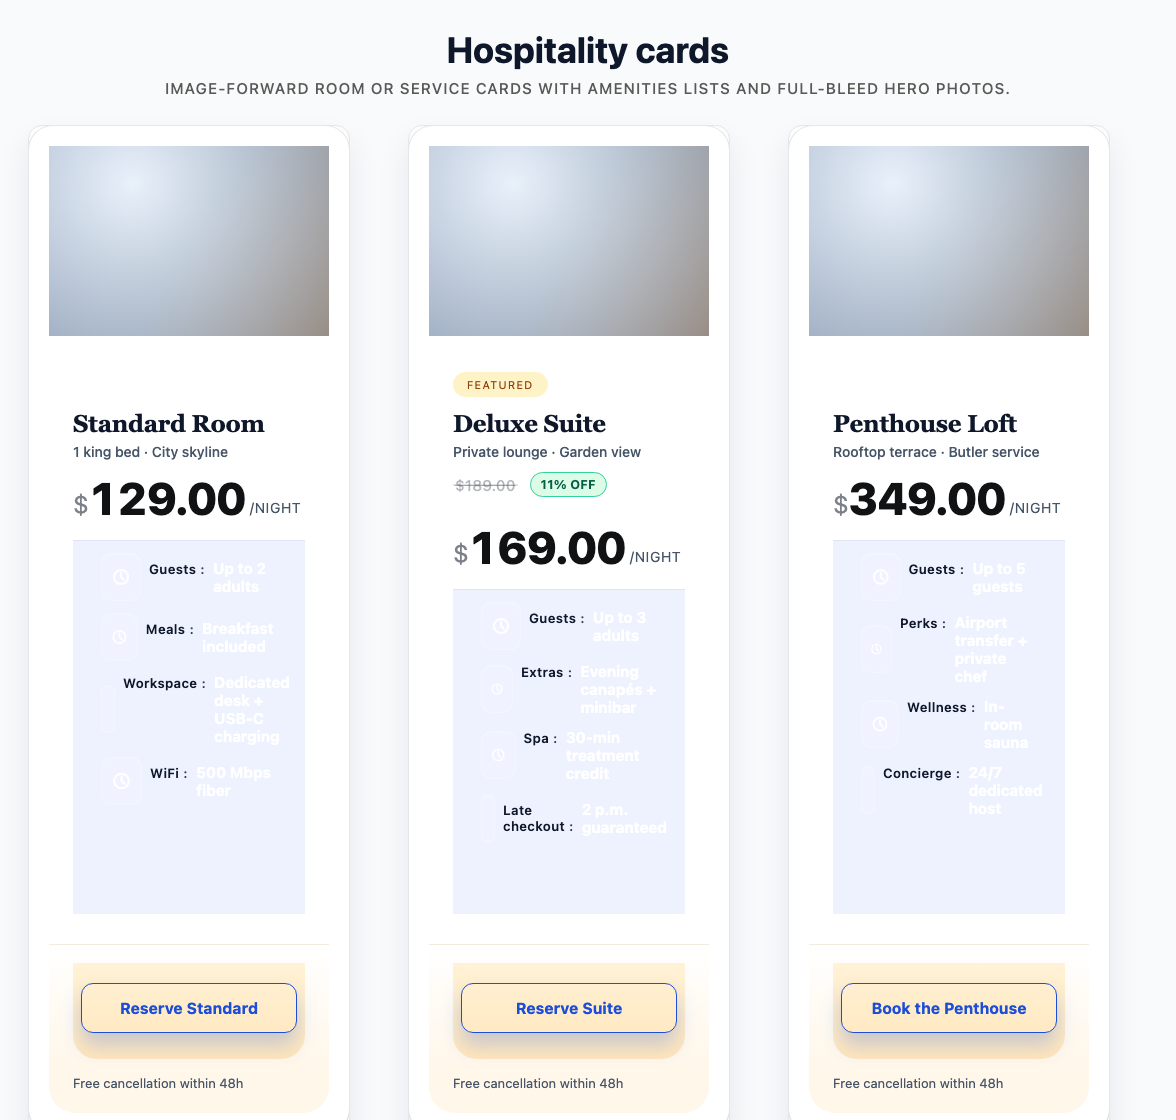
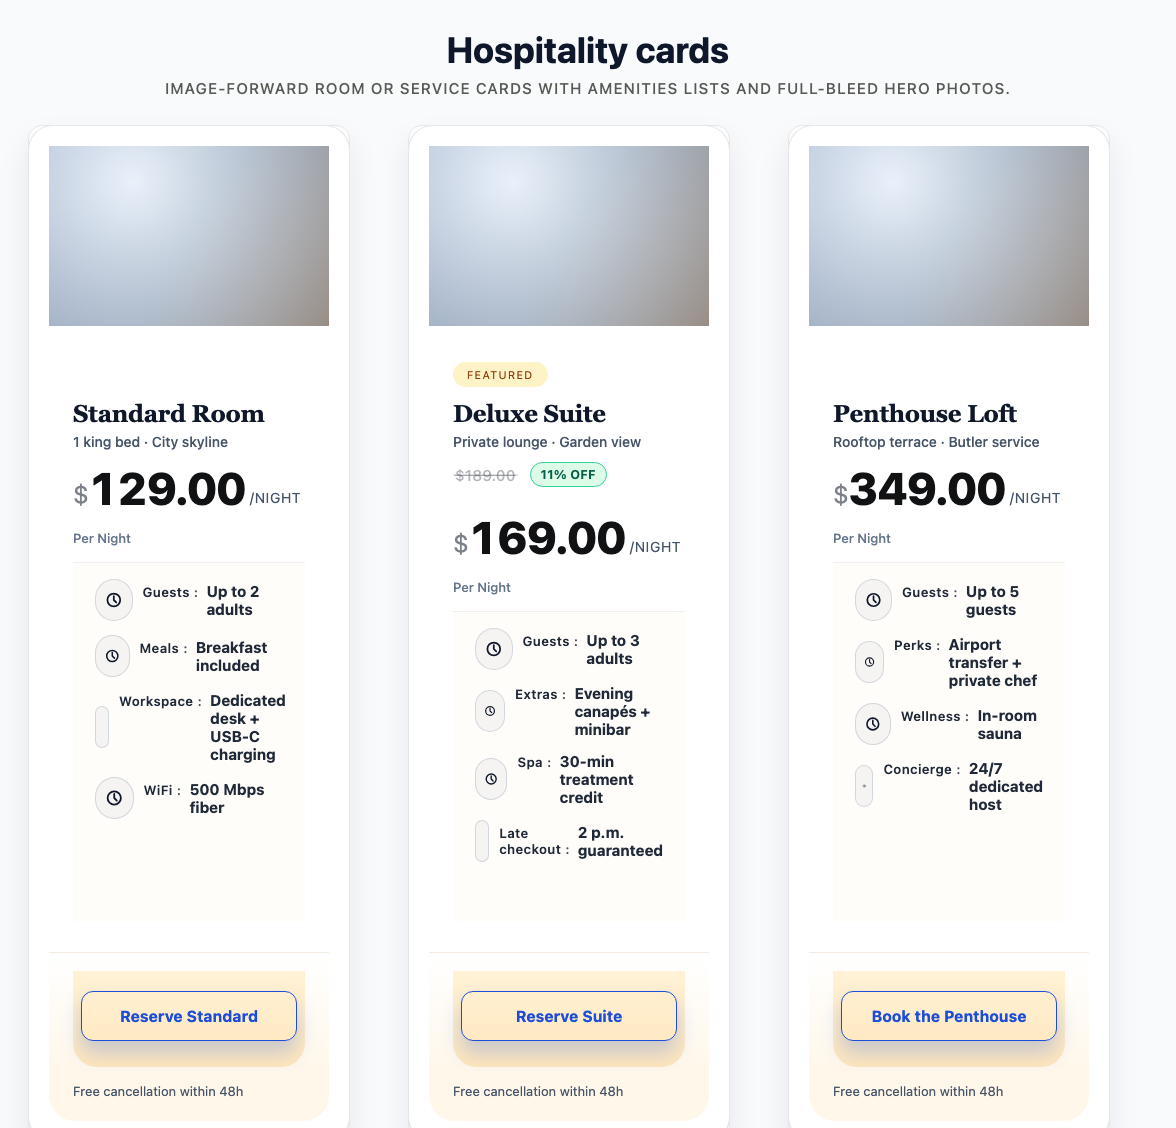
Polish Hospitality Cards specs, pricing, and spacing

diff --git a/themes/firevps/theme.css b/themes/firevps/theme.css
@@ -935,6 +935,9 @@
   flex-direction: column;
   background: var(--card-cta-gradient, var(--card-cta-bg, transparent));
 }
+.pwpl-table--theme-firevps.pwpl-table--preset-hospitality-cards .fvps-card__cta {
+  background: transparent;
+}
 
 .pwpl-table--theme-firevps .fvps-button--inline {
   width: auto;
@@ -2181,6 +2184,10 @@
   --card-specs-icon-border: rgba(139, 92, 246, 0.4);
   background: #f5f3ff;
 }
+.pwpl-table--theme-firevps.pwpl-table--preset-hospitality-cards {
+  --fvps-card-min-fallback: 380px;
+  --fvps-card-max-inline: 480px;
+}
 .pwpl-table--theme-firevps.pwpl-table--preset-app-soft-cards .pwpl-plan {
   border-radius: 0;
   border: 1px solid #e5e7eb;
@@ -2263,6 +2270,9 @@
   gap: 20px;
   align-items: stretch;
 }
+.pwpl-table--theme-firevps.pwpl-table--layout-columns.pwpl-table--preset-hospitality-cards .fvps-columns-grid {
+  gap: 36px;
+}
 .pwpl-table--theme-firevps.pwpl-table--layout-columns .fvps-columns-card {
   display: flex;
   flex-direction: column;
@@ -2280,18 +2290,31 @@
   gap: 12px;
   flex: 1 1 auto;
 }
+.pwpl-table--theme-firevps.pwpl-table--layout-columns .fvps-card__specs {
+  --card-specs-text: #0f172a;
+  background-color: #fffdfa;
+  background-image: none;
+  color: #1f2937;
+}
+.pwpl-table--theme-firevps.pwpl-table--layout-columns .fvps-card__specs .fvps-spec__label,
+.pwpl-table--theme-firevps.pwpl-table--layout-columns .fvps-card__specs .fvps-spec__value {
+  color: #1f2937;
+}
 .pwpl-table--theme-firevps .fvps-card--preset-hospitality-cards {
   background: linear-gradient(180deg, #ffffff 0%, #fffdf7 100%);
   border: 1px solid rgba(15, 23, 42, 0.07);
   border-radius: 26px;
-  box-shadow: 0 24px 50px rgba(15, 23, 42, 0.1);
+  box-shadow: none;
   padding: 0;
   overflow: hidden;
+}
+.pwpl-table--theme-firevps .fvps-card--preset-hospitality-cards::after {
+  box-shadow: 0 0 0 1px rgba(15, 23, 42, 0.06);
 }
 .fvps-hospitality-hero {
   position: relative;
   width: 100%;
-  height: 190px;
+  height: 180px;
   overflow: hidden;
   background: radial-gradient(circle at 30% 20%, rgba(255, 255, 255, 0.65), rgba(2, 6, 23, 0.3)),
     linear-gradient(120deg, #c3daf9, #bcd3eb, #d9c8b5);
@@ -2309,12 +2332,12 @@
 }
 @media (max-width: 960px) {
   .fvps-hospitality-hero {
-    height: 160px;
+    height: 155px;
   }
 }
 @media (max-width: 782px) {
   .fvps-hospitality-hero {
-    height: 140px;
+    height: 135px;
   }
 }
 .fvps-card__body--hospitality {
@@ -2352,24 +2375,50 @@
 .fvps-card--preset-hospitality-cards .fvps-card__specs {
   display: flex;
   flex-direction: column;
-  gap: 8px;
-  padding-top: 10px;
+  gap: 10px;
+  padding: 14px 22px 16px;
+  margin: 6px 0 0;
   border-top: 1px solid rgba(15, 23, 42, 0.06);
+  background-color: #fffdfa;
+  background-image: none;
+  list-style: none;
+  align-items: flex-start;
+  text-align: left;
 }
 .fvps-card--preset-hospitality-cards .fvps-card__specs li {
   display: flex;
-  align-items: center;
-  gap: 8px;
+  align-items: flex-start;
+  gap: 10px;
   font-size: 14px;
   color: #1f2937;
 }
+.fvps-card--preset-hospitality-cards .fvps-card__specs .fvps-icon {
+  width: 28px;
+  height: 28px;
+  border-radius: 999px;
+  background: rgba(15, 23, 42, 0.04);
+  border: 1px solid rgba(148, 163, 184, 0.36);
+  color: #0f172a;
+  box-shadow: none;
+}
 .fvps-card--preset-hospitality-cards .fvps-card__specs .fvps-spec__label {
   font-weight: 600;
-  color: #0f172a;
+  font-size: 11px;
+  letter-spacing: 0.08em;
+  text-transform: uppercase;
+  color: #94a3b8;
+}
+.fvps-card--preset-hospitality-cards .fvps-card__specs .fvps-spec__text {
+  gap: 4px;
+}
+.fvps-card--preset-hospitality-cards .fvps-card__specs .fvps-spec__value {
+  font-weight: 500;
+  font-size: 14px;
+  color: #1f2937;
 }
 .fvps-card__footer--hospitality {
   margin-top: auto;
-  background: linear-gradient(180deg, rgba(255, 255, 255, 0) 0%, #fff7ea 70%);
+  background: #ffffff;
   padding: 18px 24px 22px;
   border-top: 1px solid rgba(15, 23, 42, 0.05);
   border-radius: 0 0 26px 26px;
@@ -2381,6 +2430,7 @@
   font-size: 13px;
   color: #475569;
   margin-top: 6px;
+  flex-wrap: wrap;
 }
 .fvps-card--preset-hospitality-cards .fvps-plan-featured {
   background: #fef3c7;

diff --git a/assets/js/frontend.js b/assets/js/frontend.js
@@ -75,7 +75,7 @@
         return best || variants[0];
     }
 
-    function buildPriceHTML(variant) {
+    function buildPriceHTML(variant, table) {
         if (!variant) {
             return '<span class="pwpl-plan__price--empty">' + __( 'Contact us' ) + '</span>';
         }
@@ -89,10 +89,18 @@
         const saleNum = (sale !== '' && sale !== null) ? parseFloat(sale) : NaN;
         const hasDiscount = !Number.isNaN(priceNum) && !Number.isNaN(saleNum) && priceNum > 0 && saleNum >= 0 && saleNum < priceNum;
 
-        // Treat variant prices as monthly; just format and append /mo
+        // Format numeric prices and derive display unit.
         const formattedPriceMonthly = price ? formatPrice(price) : '';
         const formattedSaleMonthly  = sale ? formatPrice(sale)  : '';
-        const unit = ' /mo';
+        let unit = '';
+        const fallbackUnit = (table && typeof table.dataset.unitDefault === 'string' && table.dataset.unitDefault.trim() !== '')
+            ? ' ' + table.dataset.unitDefault.trim()
+            : ' /mo';
+        if (typeof variant.unit === 'string' && variant.unit.trim() !== '') {
+            unit = ' ' + variant.unit.trim();
+        } else {
+            unit = fallbackUnit;
+        }
 
         if (hasDiscount && formattedSaleMonthly && formattedPriceMonthly) {
             const pct = Math.round(((priceNum - saleNum) / priceNum) * 100);
@@ -644,9 +652,13 @@
         }
     }
 
-    function updateBilling(plan, selection, dimensionLabels) {
+    function updateBilling(table, plan, selection, dimensionLabels) {
         const billingEl = plan.querySelector('[data-pwpl-billing]');
         if (!billingEl) {
+            return;
+        }
+        if (table && table.dataset.billingStatic === 'true') {
+            billingEl.hidden = false;
             return;
         }
         const periodSlug = selection.period || '';
@@ -671,12 +683,12 @@
             const best = resolveVariant(variants, selection);
             const priceEl = plan.querySelector('[data-pwpl-price]');
             if (priceEl) {
-                priceEl.innerHTML = buildPriceHTML(best);
+                priceEl.innerHTML = buildPriceHTML(best, table);
             }
             updateBadge(plan, selection, tableBadges);
             updateLocation(plan, selection, dimensionLabels);
             updateCta(plan, best);
-            updateBilling(plan, selection, dimensionLabels);
+            updateBilling(table, plan, selection, dimensionLabels);
         });
     }
 

diff --git a/includes/class-pwpl-shortcode.php b/includes/class-pwpl-shortcode.php
@@ -853,6 +853,12 @@ class PWPL_Shortcode {
                 $variants = $plan_variants_cache[ $plan_id ] ?? [];
                 $best_variant = $this->resolve_variant( $variants, $active_values );
                 $price_html   = $this->build_price_html( $best_variant, $settings );
+                $plan_billing_meta = get_post_meta( $plan_id, 'billing', true );
+                if ( is_string( $plan_billing_meta ) && '' !== trim( $plan_billing_meta ) ) {
+                    $billing_copy = sanitize_text_field( $plan_billing_meta );
+                } else {
+                    $billing_copy = $this->get_billing_copy( $active_values, $dimension_labels );
+                }
 
                 $override_badges = get_post_meta( $plan_id, PWPL_Meta::PLAN_BADGES_OVERRIDE, true );
                 if ( ! is_array( $override_badges ) ) {
@@ -1101,7 +1107,12 @@ class PWPL_Shortcode {
                         $badge_view['label'] = '';
                     }
                     $cta          = $this->prepare_cta( $variant );
-                    $billing_copy = $this->get_billing_copy( $active_values, $dimension_labels );
+                    $plan_billing_meta = get_post_meta( $plan->ID, 'billing', true );
+                    if ( is_string( $plan_billing_meta ) && '' !== trim( $plan_billing_meta ) ) {
+                        $billing_copy = sanitize_text_field( $plan_billing_meta );
+                    } else {
+                        $billing_copy = $this->get_billing_copy( $active_values, $dimension_labels );
+                    }
 
                     $location_slug  = $active_values['location'] ?? '';
                     $location_label = $this->get_dimension_label( 'location', $location_slug, $dimension_labels );
@@ -1291,6 +1302,14 @@ class PWPL_Shortcode {
             return '<span class="pwpl-plan__price--empty">' . esc_html__( 'Contact us', 'planify-wp-pricing-lite' ) . '</span>';
         }
 
+        $unit_label = '';
+        if ( isset( $variant['unit'] ) ) {
+            $unit_label = trim( (string) $variant['unit'] );
+        }
+        if ( '' === $unit_label ) {
+            $unit_label = __( '/mo', 'planify-wp-pricing-lite' );
+        }
+
         // Use variant-provided prices as monthly values without additional math
         $price_num = is_numeric( $price ) ? (float) $price : null;
         $sale_num  = is_numeric( $sale ) ? (float) $sale : null;
@@ -1317,7 +1336,7 @@ class PWPL_Shortcode {
                 . ( $sale_prefix !== '' ? '<span class="pwpl-price-currency pwpl-currency--prefix">' . esc_html( $sale_prefix ) . '</span>' : '' )
                 . '<span class="pwpl-price-value">' . esc_html( $sale_value ) . '</span>'
                 . ( $sale_suffix !== '' ? '<span class="pwpl-price-currency pwpl-currency--suffix">' . esc_html( $sale_suffix ) . '</span>' : '' )
-                . '<span class="pwpl-price-unit">/mo</span>'
+                . '<span class="pwpl-price-unit">' . esc_html( $unit_label ) . '</span>'
                 . '</span>';
             // Order: old price + badge (same line), then sale block; unit is added by CSS/JS if needed
             return '<span class="pwpl-plan__price-original">' . esc_html( $formatted_price ) . '</span>' . $badge_html . $sale_html;
@@ -1335,7 +1354,7 @@ class PWPL_Shortcode {
         $single_html = ( $pfx !== '' ? '<span class="pwpl-price-currency pwpl-currency--prefix">' . esc_html( $pfx ) . '</span>' : '' )
             . '<span class="pwpl-price-value">' . esc_html( $val ) . '</span>'
             . ( $sfx !== '' ? '<span class="pwpl-price-currency pwpl-currency--suffix">' . esc_html( $sfx ) . '</span>' : '' )
-            . '<span class="pwpl-price-unit">/mo</span>';
+            . '<span class="pwpl-price-unit">' . esc_html( $unit_label ) . '</span>';
         return '<span class="pwpl-plan__price">' . $single_html . '</span>';
     }
 

diff --git a/includes/class-pwpl-table-templates.php b/includes/class-pwpl-table-templates.php
@@ -1061,6 +1061,7 @@ class PWPL_Table_Templates {
                                     __( 'Free cancellation within 48h', 'planify-wp-pricing-lite' ),
                                 ],
                                 PWPL_Meta::PLAN_HERO_IMAGE_URL => self::template_demo_url( 'hospitality-standard.png' ),
+                                'billing' => __( 'Per night', 'planify-wp-pricing-lite' ),
                             ],
                         ],
                         [
@@ -1094,6 +1095,7 @@ class PWPL_Table_Templates {
                                     __( 'Free cancellation within 48h', 'planify-wp-pricing-lite' ),
                                 ],
                                 PWPL_Meta::PLAN_HERO_IMAGE_URL => self::template_demo_url( 'hospitality-deluxe.png' ),
+                                'billing' => __( 'Per night', 'planify-wp-pricing-lite' ),
                             ],
                         ],
                         [
@@ -1125,6 +1127,7 @@ class PWPL_Table_Templates {
                                     __( 'Free cancellation within 48h', 'planify-wp-pricing-lite' ),
                                 ],
                                 PWPL_Meta::PLAN_HERO_IMAGE_URL => self::template_demo_url( 'hospitality-penthouse.png' ),
+                                'billing' => __( 'Per night', 'planify-wp-pricing-lite' ),
                             ],
                         ],
                     ],

diff --git a/includes/class-pwpl-table-renderer.php b/includes/class-pwpl-table-renderer.php
@@ -287,6 +287,9 @@ class PWPL_Table_Renderer {
             $best_variant = self::resolve_variant( $variants, $active_values );
             $price_html   = self::build_price_html( $best_variant, $settings );
             $billing      = self::get_billing_copy( $active_values, $dimension_labels );
+            if ( isset( $meta['billing'] ) && '' !== trim( (string) $meta['billing'] ) ) {
+                $billing = sanitize_text_field( (string) $meta['billing'] );
+            }
 
             $datasets = [
                 'platforms' => [],

diff --git a/themes/firevps/layouts/columns.php b/themes/firevps/layouts/columns.php
@@ -79,6 +79,10 @@ $wrapper_attrs['data-table-id']         = (int) ( $table['id'] ?? 0 );
 $wrapper_attrs['data-table-theme']      = $theme_slug;
 $wrapper_attrs['data-badges']           = $badges_json ?: '{}';
 $wrapper_attrs['data-dimension-labels'] = $labels_json ?: '{}';
+if ( 'hospitality-cards' === $preset ) {
+	$wrapper_attrs['data-unit-default']   = '/night';
+	$wrapper_attrs['data-billing-static'] = 'true';
+}
 
 if ( $specs_style && 'default' !== $specs_style ) {
 	$wrapper_attrs['data-fvps-specs-style'] = $specs_style;

diff --git a/README.md b/README.md
@@ -68,7 +68,7 @@ These values power the filters and variant pickers across all tables.
 
 1. Click **Planify** in the WP Admin menu to open the Pricing Tables dashboard. On first run you’ll see a welcome view with a “Create your first pricing table” call to action.
 2. You can start with the **New Table Wizard** (Planify → New table (wizard)):
-   - Step 1: pick a template from a small library of presets (SaaS 3 Column, Startup Pricing Grid, Service Columns, Feature Comparison Table, Service Plans, the new Hospitality Cards preset) from a grid of real preview thumbnails. Each template belongs to a layout family (grid, columns, comparison) and a visual preset within that family. The sidebar now groups cards under sticky category headings with an “All / SaaS / Services / Comparison …” chip row so PMs can filter quickly (the old search/tag chips stay hidden until the library grows); selecting a template expands an inline “Details ▾” drawer beneath that tile with highlights, tags, and sample specs so guidance stays visible without scrolling. Cards also feature a subtle glassy hover/selection treatment with a soft sheen overlay and a glowing border on the selected tile so the preview feels tactile and clearly “click to preview”, and the template column itself now uses a clean white canvas so the thumbnails feel calm instead of floating over a gray strip. Hospitality Cards ships image-forward hotel/salon plans with real hero photos, amenities grids, CTA reassurance copy, and `/night` pricing units out of the box.
+   - Step 1: pick a template from a small library of presets (SaaS 3 Column, Startup Pricing Grid, Service Columns, Feature Comparison Table, Service Plans, the new Hospitality Cards preset) from a grid of real preview thumbnails. Each template belongs to a layout family (grid, columns, comparison) and a visual preset within that family. The sidebar now groups cards under sticky category headings with an “All / SaaS / Services / Comparison …” chip row so PMs can filter quickly (the old search/tag chips stay hidden until the library grows); selecting a template expands an inline “Details ▾” drawer beneath that tile with highlights, tags, and sample specs so guidance stays visible without scrolling. Cards also feature a subtle glassy hover/selection treatment with a soft sheen overlay and a glowing border on the selected tile so the preview feels tactile and clearly “click to preview”, and the template column itself now uses a clean white canvas so the thumbnails feel calm instead of floating over a gray strip. Hospitality Cards ships image-forward hotel/salon plans with full-bleed hero photos, a clear amenities list, `/night` pricing units, and a visible “free cancellation / reassurance” line under each CTA.
    - Step 2: choose layout & card style, tweak tabs/dimensions, and adjust plan columns via an inline editor (per-column title/subtitle, specs, price/sale price, CTA, featured/highlight).
    - Step 3: review a summary, create the table, then either open it in the editor or create & copy the shortcode via a modern confirmation modal.
    - Each template maps to a distinct built-in visual system (palette, card style, CTA placement) without changing the underlying shortcode/meta. The wizard creates a real table with demo plans using existing meta keys, then opens the Table Editor V2 for fine-tuning. For example, the **SaaS 3 Column** preset uses an optional per-plan hero image that renders as a full‑bleed image header above each plan’s title, with a unified white content surface for pricing + specs, a bottom-anchored CTA, and a small reassurance note under the button (e.g. “No credit card required”). Template sample bundles can also inject per-plan trust trio copy, which now persists as plan meta and renders under each CTA in FireVPS so every card can surface tailored reassurance bullets.

diff --git a/CHANGELOG.md b/CHANGELOG.md
@@ -27,7 +27,7 @@ The V1 work has been developed on the `feature/admin-ui-ux-v1` branch and will r
 - Wizard template metadata now expands inline beneath the selected card (toggled via a “Details ▾” link) so highlights/best-for/sample specs stay visible next to the picker instead of hiding at the bottom of the sidebar, and Step 1 now presents a grid of real preview thumbnails grouped by sticky category headings + category chips (All, SaaS, Services, Comparison, etc.) while the old search/tag chip row remains hidden until the library grows. Thumbnails can be regenerated via `npm run capture:thumbs`, which renders each preset and replaces the PNGs in `assets/admin/img/wizard-thumbs/`.
 - Wizard template cards now feature a subtle glassy hover/selection treatment with a gradient border and hovering sheen so each tile clearly communicates “click to preview” while keeping the grid feeling premium.
 - Table Wizard’s template column now sits on a clean white canvas with softened card shadows, and the selected card gets a crisp glowing border so the picker feels calm while clearly indicating the active choice.
-- FireVPS columns layout now supports `_pwpl_plan_hero_image_url` fallbacks, a new Hospitality-specific hero block, cream card surfaces, and CTA reassurance footers; plan variants also accept custom `unit` strings (e.g., `/night`) so the new hospitality preset can show realistic nightly pricing while grid cards fall back to `/mo` when no unit is provided.
+- FireVPS columns layout now supports `_pwpl_plan_hero_image_url` fallbacks, a Hospitality-specific hero block, cream card surfaces, a clearer amenities list, and CTA reassurance footers; plan variants also accept custom `unit` strings (e.g., `/night`) so the hospitality preset can show realistic nightly pricing while grid cards fall back to `/mo` when no unit is provided.
 
 ---
 
